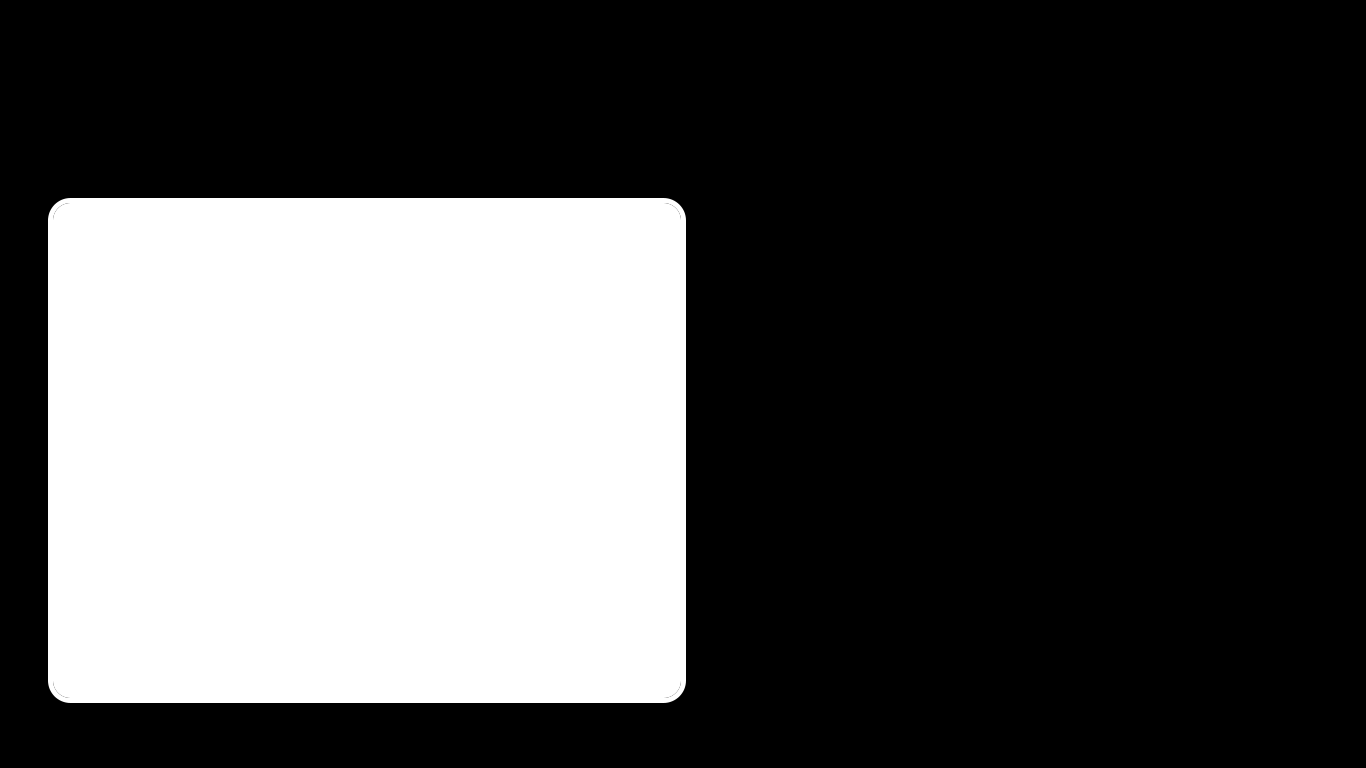
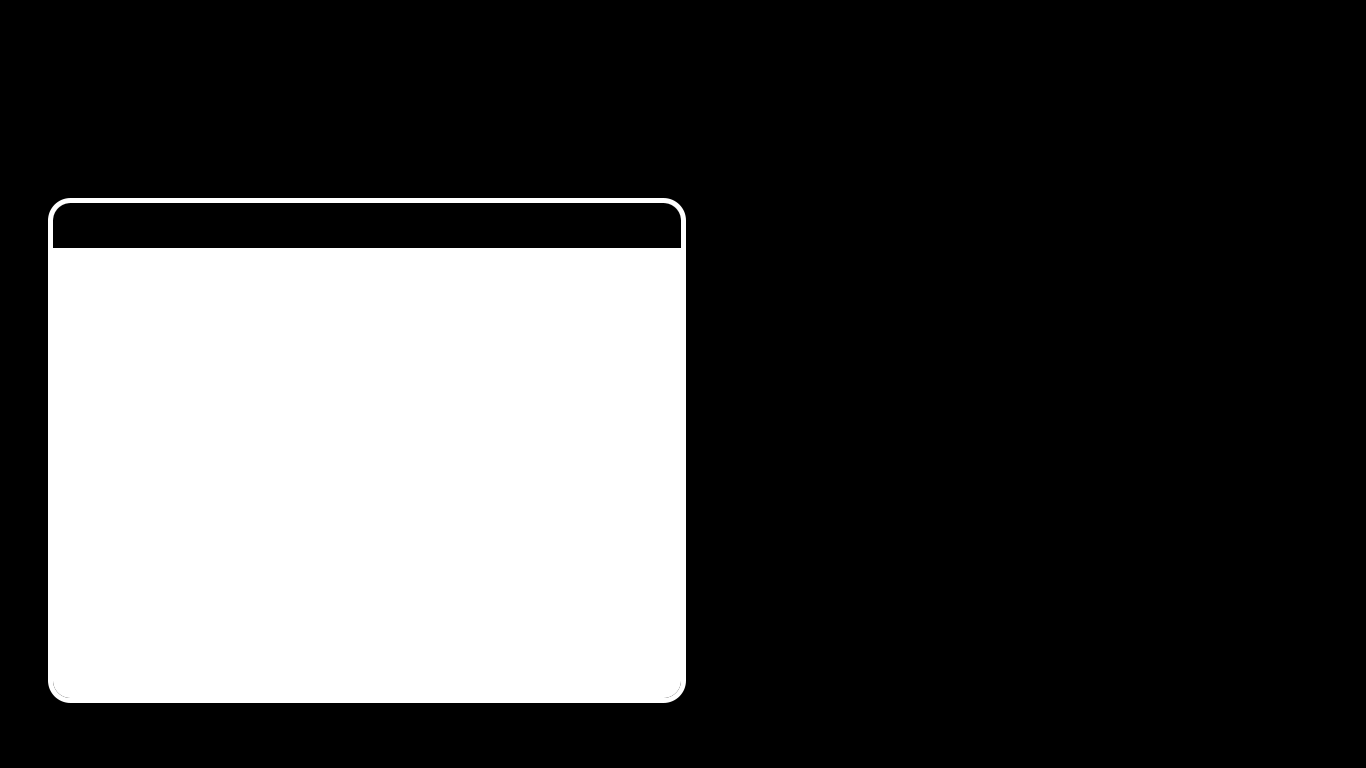
add scrolling

Changed region(s): [[0.0307, 0.25, 0.5227, 0.3438]]

diff --git a/data/play.py b/data/play.py
@@ -97,25 +97,13 @@ class Play:
         title = pg.sprite.Sprite()
         create_sprite(title, 'play_title.png', 50, 50, menu_sprites)
 
-        reward = pg.sprite.Sprite()
-        create_sprite(reward, "reward.png", 1066, 518, menu_sprites)
-
         play = pg.sprite.Sprite()
         create_sprite(play, 'play.png', 1066, 668, menu_sprites)
 
+        q, n = 255, 0
         while True:
-
-            for event in pg.event.get():
-                if event.type == pg.QUIT:
-                    terminate()
-                elif event.type == pg.MOUSEBUTTONDOWN:
-                    if x.rect.collidepoint(event.pos):
-                        return
-                elif event.type == pg.KEYDOWN:
-                    if event.key == pg.K_ESCAPE:
-                        return
-
             self.screen.fill((0, 0, 0))
+
             with open(os.path.join(self.path, "statistic.txt")) as statistic:
                 statistic = dict(map(lambda a: tuple(a.split(': ')), [line for line in list(
                     map(lambda a: a.strip('\n'), statistic.readlines())) if line != '' if
@@ -124,11 +112,57 @@ class Play:
                       encoding='utf-8') as mission:
                 mission = dict(map(lambda a: tuple(a.split(': ')), [line for line in list(
                     map(lambda a: a.strip('\n'), mission.readlines())) if line != '' if
-                                                                      line[0] != '#']))
-                for j in [[mission['name'], (255, 255, 255), 70, 205, 50],
-                          [mission['mission'], (192, 192, 192), 55, 255, 25]]:
-                    self.screen.blit(pg.font.Font(None, j[4]).render(j[0], True, j[1]),
-                                     (j[2], j[3]))
+                                                                    line[0] != '#']))
+
+            texts, words, y, i, running = [], mission['mission'].split(), q, 0, True
+            while running:
+                text, ln = '', 0
+                while True:
+                    try:
+                        if ln + len(words[i]) < 57 and '\\n' not in words[i]:
+                            text, ln, i = text + words[i] + ' ', ln + len(words[i]), i + 1
+                        else:
+                            words[i] = words[i].strip('\\n')
+                            break
+                    except IndexError:
+                        running = False
+                        break
+                texts.append([text, (192, 192, 192), 55, y, 25])
+                y += 25
+            for j in texts:
+                self.screen.blit(pg.font.Font(None, j[4]).render(j[0], True, j[1]), (j[2], j[3]))
+
+            for event in pg.event.get():
+                if event.type == pg.QUIT:
+                    terminate()
+                elif event.type == pg.MOUSEBUTTONDOWN:
+                    if event.button == 4:
+                        if n - 1 >= 0:
+                            q, n = q + 25, n - 1
+                    elif event.button == 5:
+                        if n + 1 < len(texts) - 16:
+                            q, n = q - 25, n + 1
+                    if x.rect.collidepoint(event.pos):
+                        return
+                elif event.type == pg.KEYDOWN:
+                    if event.key == pg.K_ESCAPE:
+                        return
+
             menu_sprites.draw(self.screen)
+
+            for j in [[mission['name'], (255, 255, 255), 70, 205, 50],
+                      ['Награда:', (255, 255, 255), 1066, 638, 25],
+                      [f"{mission['reward']} XP", (255, 255, 255), 1150, 638, 25],
+                      ['Сложность:', (255, 255, 255), 1066, 613, 25],
+                      (['Обучение', (255, 255, 255), 1175, 613, 25],
+                       ['Самый лёгкий', (66, 170, 255), 1175, 613, 25],
+                       ['Лёгкий', (0, 255, 0), 1175, 613, 25],
+                       ['Нормальный', (255, 255, 0), 1175, 613, 25],
+                       ['Сложный', (255, 165, 0), 1175, 613, 25],
+                       ['Невозможный', (255, 0, 0), 1175, 613, 25])[
+                          int(mission['difficulty'])]]:
+                self.screen.blit(pg.font.Font(None, j[4]).render(j[0], True, j[1]),
+                                 (j[2], j[3]))
+
             pg.display.flip()
             clock.tick(self.fps)
